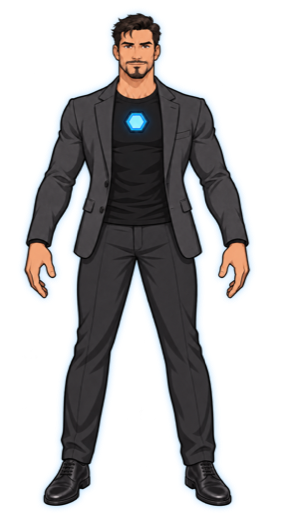
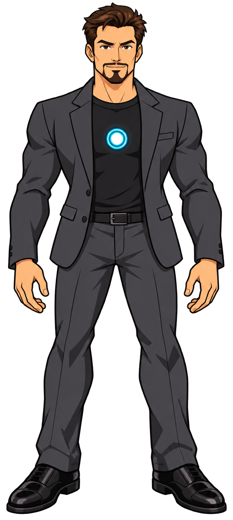
New Iron Man and Tony, and cast cards of one size
The Iron Man and Tony cards show the redrawn characters from 0.11.

Each card's picture box took its height from the picture, so the tall,
narrow Iron Man stretched his card and pushed the text down. The boxes
are now fixed squares with the picture fitted inside, and all eight
cards line up.

diff --git a/index.html b/index.html
@@ -170,9 +170,9 @@ button{font:inherit;cursor:pointer;color:inherit;border:0}
 .who:hover{transform:translateY(-8px) rotate(-1.5deg)}
 .who:active{transform:scale(.96)}
 .who[aria-pressed="true"]{box-shadow:var(--clay),0 0 0 4px var(--orange)}
-.who .shot{display:grid;place-items:center;aspect-ratio:1;border-radius:28px;background:var(--peach);margin-bottom:14px;box-shadow:var(--clay-in)}
+.who .shot{position:relative;display:block;aspect-ratio:1;border-radius:28px;background:var(--peach);margin-bottom:14px;box-shadow:var(--clay-in)}
 .who:nth-child(4n+2) .shot{background:var(--sky)} .who:nth-child(4n+3) .shot{background:var(--rose)} .who:nth-child(4n) .shot{background:var(--mint)}
-.who img{width:82%;height:82%;object-fit:contain;filter:drop-shadow(0 12px 10px rgba(60,20,40,.3));transition:transform .3s var(--pop)}
+.who img{position:absolute;left:9%;top:9%;width:82%;height:82%;object-fit:contain;filter:drop-shadow(0 12px 10px rgba(60,20,40,.3));transition:transform .3s var(--pop)}
 .who:hover img{transform:scale(1.08) rotate(3deg)}
 .who h3{font-size:26px;margin:0 6px 6px}
 .who p{margin:0 6px 6px;font-size:15px;font-weight:700;line-height:1.4;color:var(--soft)}
@@ -345,8 +345,8 @@ footer .wrap{display:flex;justify-content:space-between;flex-wrap:wrap;gap:12px}
       <button class="who rise" data-char="spider" data-img="img/spider.png" aria-pressed="true"><span class="shot"><img src="img/spider.png" alt="" width="320" height="320"></span><h3>Spider</h3><p>The default and the menu bar icon. Drag it down and the silk stretches.</p></button>
       <button class="who rise" data-char="ironbot" data-img="img/ironbot.png" aria-pressed="false"><span class="shot"><img src="img/ironbot.png" alt="" loading="lazy" width="320" height="320"></span><h3>Ironbot</h3><p>Drawn for the app. Lights the thrusters and fires from both palms.</p></button>
       <button class="who rise" data-char="spiderMan" data-img="img/spiderMan.png" aria-pressed="false"><span class="shot"><img src="img/spiderMan.png" alt="" loading="lazy" width="320" height="320"></span><h3>Spider-Man</h3><p>The original, on the same thread with the same moves.</p></button>
-      <button class="who rise" data-char="ironMan" data-img="img/ironMan.png" aria-pressed="false"><span class="shot"><img src="img/ironMan.png" alt="" loading="lazy" width="320" height="320"></span><h3>Iron Man</h3><p>Flies in on his thrusters and fires a volley when there is something to say.</p></button>
-      <button class="who rise" data-char="tony" data-img="img/tonyStark.png" aria-pressed="false"><span class="shot"><img src="img/tonyStark.png" alt="" loading="lazy" width="282" height="520"></span><h3>Tony Stark</h3><p>Waits in a blazer, suits up piece by piece under a sweep of blue light, then rises and fires from both palms.</p></button>
+      <button class="who rise" data-char="ironMan" data-img="img/ironMan.png" aria-pressed="false"><span class="shot"><img src="img/ironMan.png" alt="" loading="lazy" width="320" height="320"></span><h3>Iron Man</h3><p>Our own red-and-gold armour. Flies in on palm and boot thrusters and fires a beam from each palm.</p></button>
+      <button class="who rise" data-char="tony" data-img="img/tonyStark.png" aria-pressed="false"><span class="shot"><img src="img/tonyStark.png" alt="" loading="lazy" width="233" height="520"></span><h3>Tony Stark</h3><p>Waits in a blazer, suits up piece by piece under a sweep of blue light, then rises and fires from both palms.</p></button>
       <button class="who rise" data-char="cap" data-img="img/cap.png" aria-pressed="false"><span class="shot"><img src="img/cap.png" alt="" loading="lazy" width="320" height="320"></span><h3>Captain America</h3><p>Throws the shield. It glances off two screen edges and comes home.</p></button>
       <button class="who rise" data-char="cat" data-img="img/cat.png" aria-pressed="false"><span class="shot"><img src="img/cat.png" alt="" loading="lazy" width="320" height="320"></span><h3>Cat</h3><p>Asleep in a corner until there is news, then walks over.</p></button>
       <button class="who rise" data-char="dog" data-img="img/dog.png" aria-pressed="false"><span class="shot"><img src="img/dog.png" alt="" loading="lazy" width="320" height="320"></span><h3>Dog</h3><p>Floppy ears and a tail that gives the game away.</p></button>
